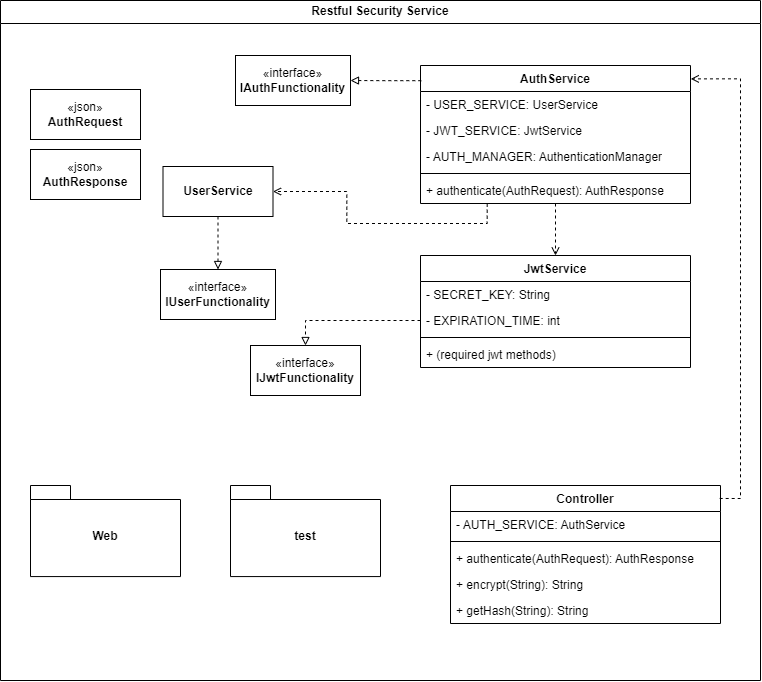
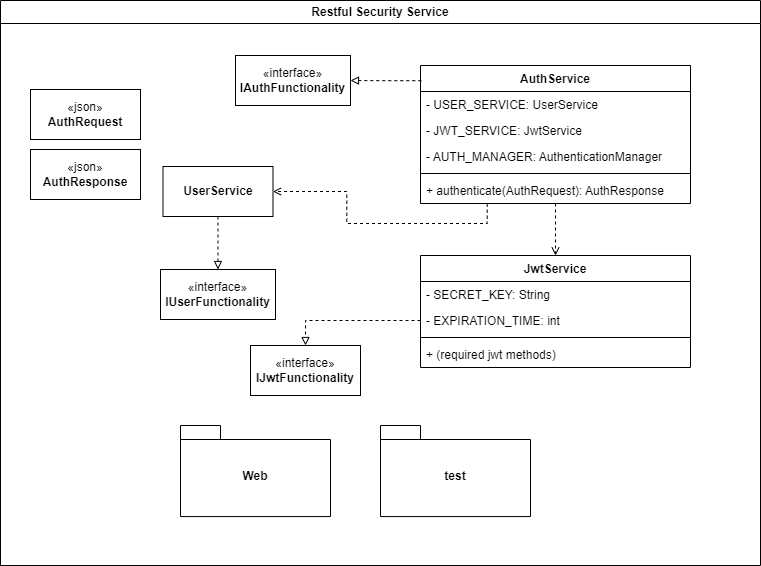
Redesign diagrams & do grammar corrections in README.md

diff --git a/README.md b/README.md
@@ -14,12 +14,12 @@ This is a Restful CRUD App Sample divided in Frontend, Backend and Database.
    - Super user logs into the app with secure authentication.
    - Super user creates a Regular user with unique credentials.
    - Super user logs out securely.
-   - Regular user logs into the app using their credentials.
+   - Regular user logs into the app using its credentials.
    - Regular user performs CRUD actions securely.
-   - If a delete action is required, the Super user must securely log into the app to execute it.
+   - If a delete action is required, the Super user must securely log in the app to execute it.
 
 3. **Alternate Flow(s):**
-   - If a Regular user already exists during Super user creation, the system will display a user-friendly error message guiding the Super user to resolve the duplication issue.
+   - If a Regular user already exists during  user creation, the system will display a user-friendly error message notifying the Super user about the duplication.
    - Editing a Regular user requires Super user authentication to ensure the security of user data and roles.
 
 4. **Security Considerations:**
@@ -28,10 +28,11 @@ This is a Restful CRUD App Sample divided in Frontend, Backend and Database.
 ![Alt Text](image/use_cases.png)
 
 ### Business Rules
-- Critical operations such as delete or user management only can be performed by admin users.
+- Critical operations such as delete or user management only can be performed by super users.
 - User usernames must be unique.
 - User must have identification, name, username and password.
 - Users are created with Regular role as default.
+- User creation in business-layer level also includes creation in database-layer.
 ## Suggested Software Architecture
 Simple whole-system Diagram:
 ![Alt Text](image/suggested_architecture_simple_diagram.png)
